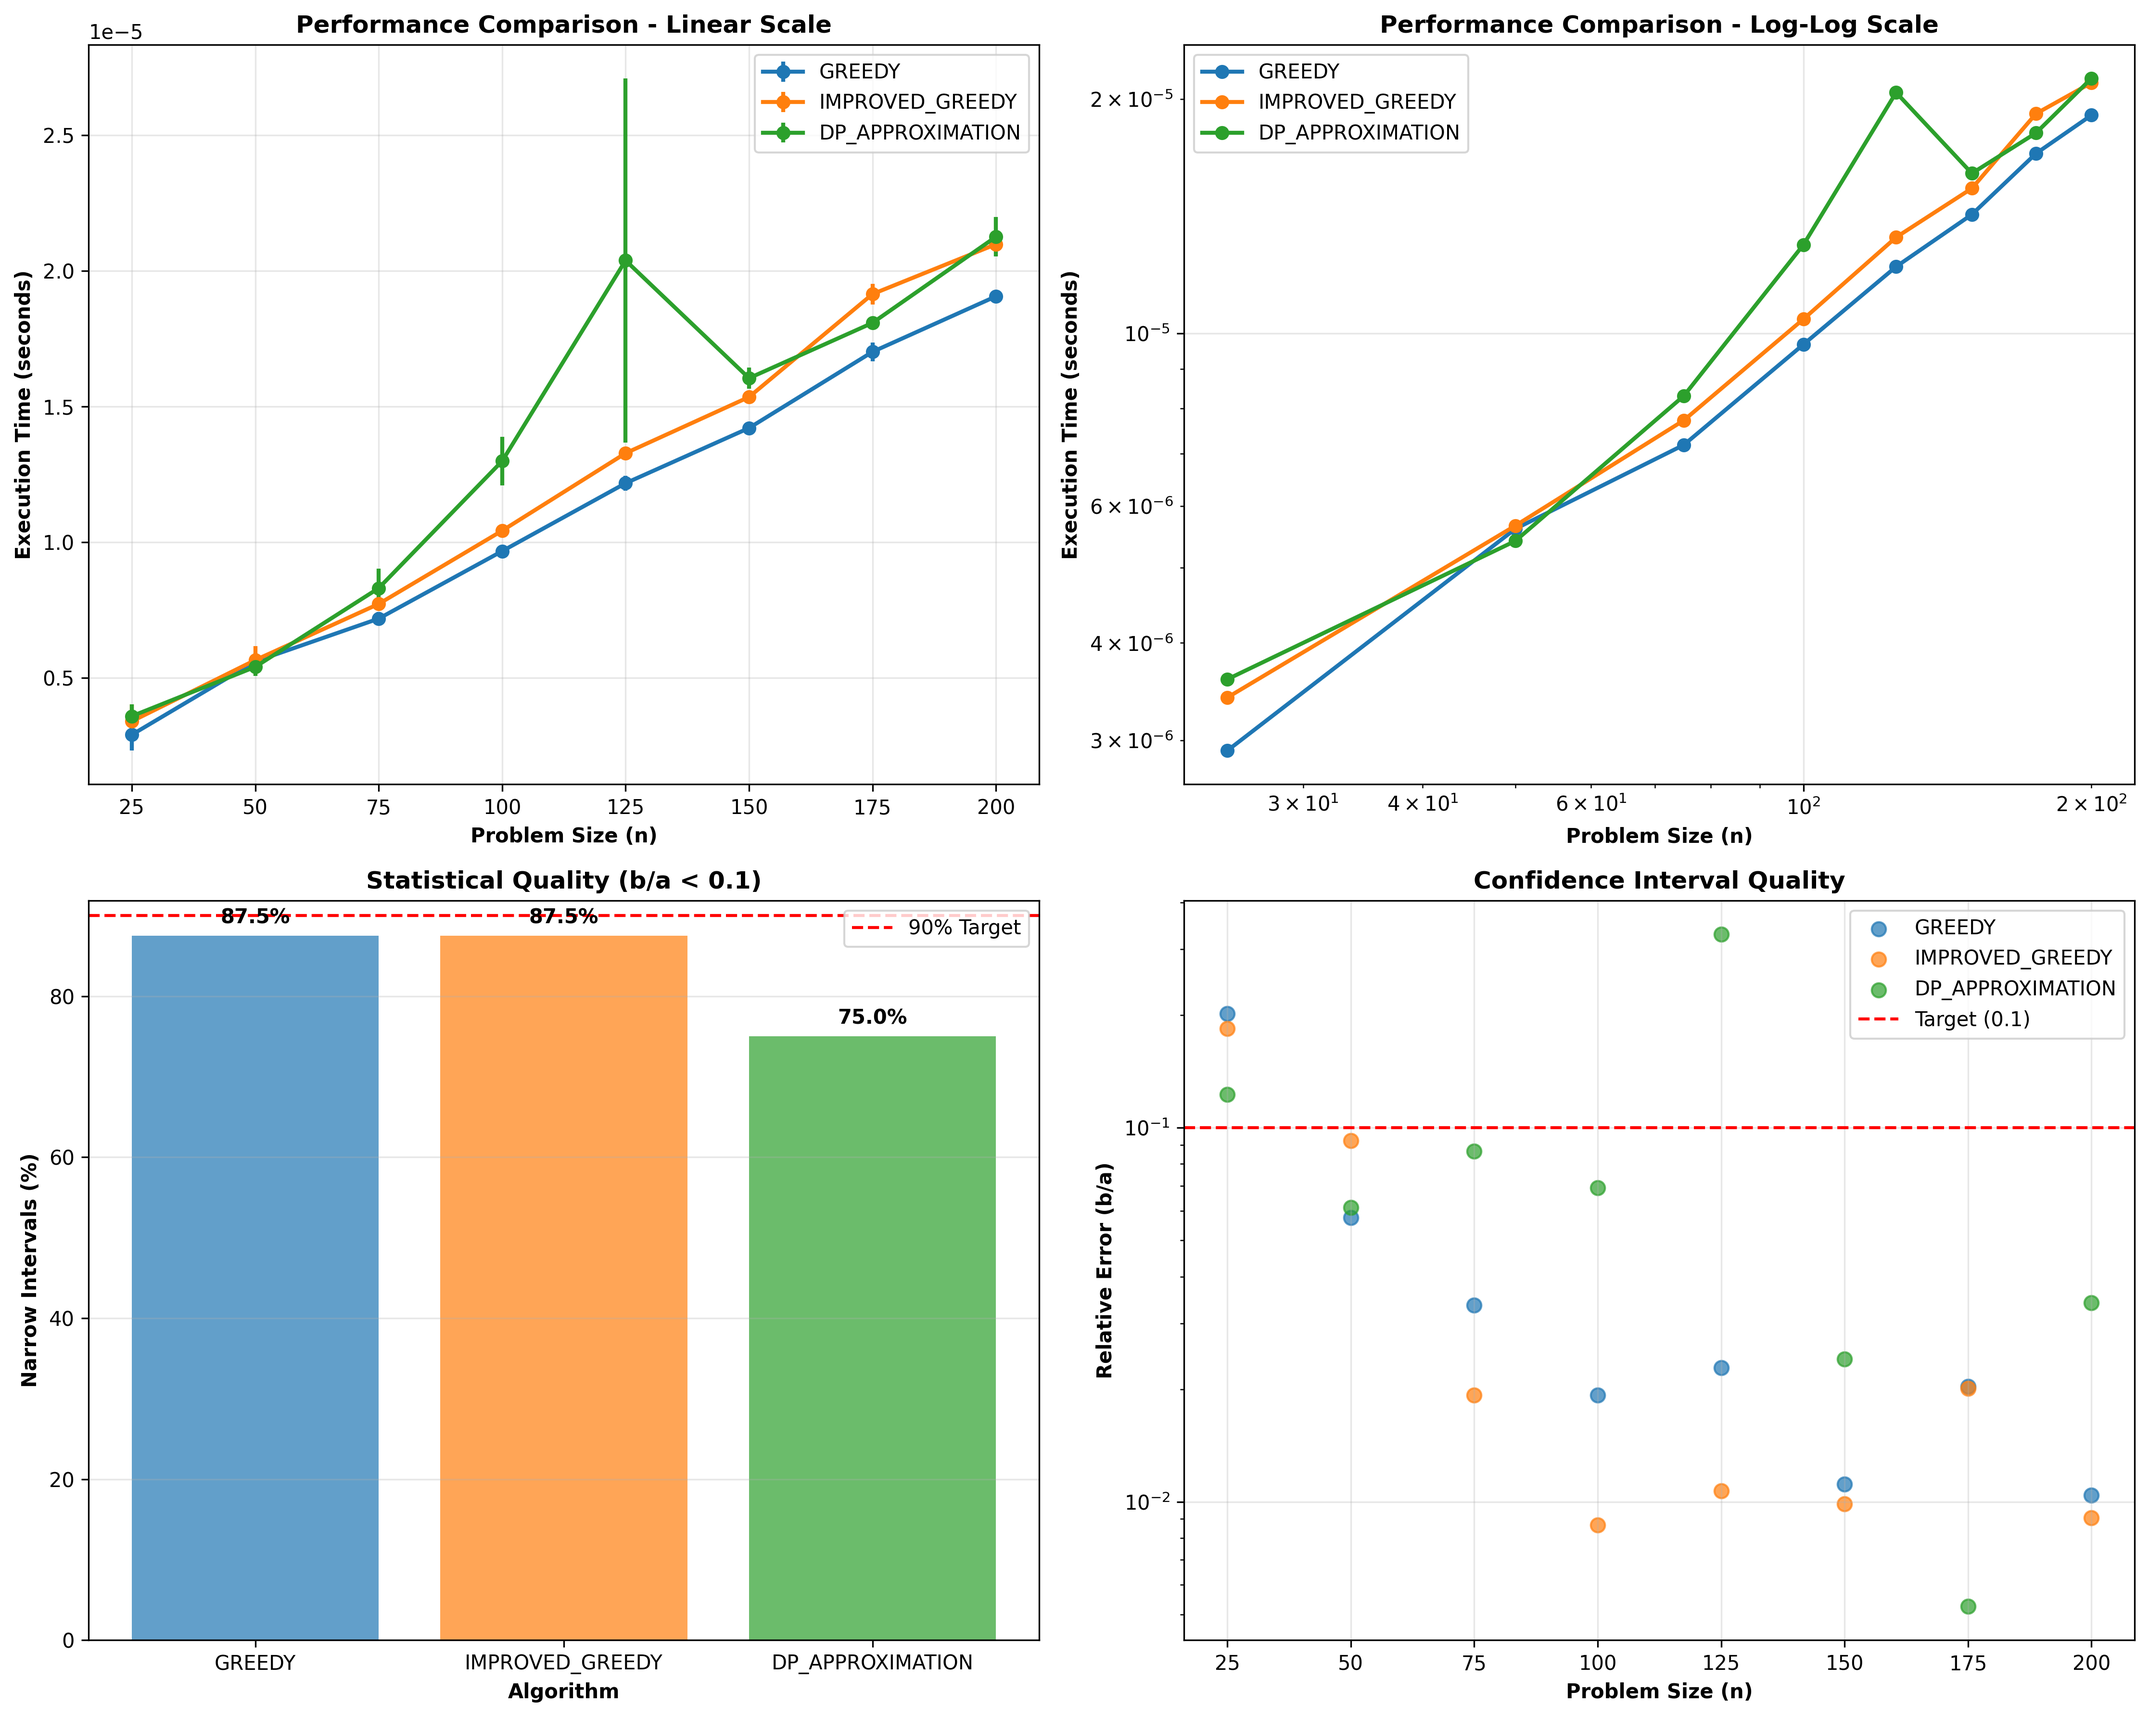
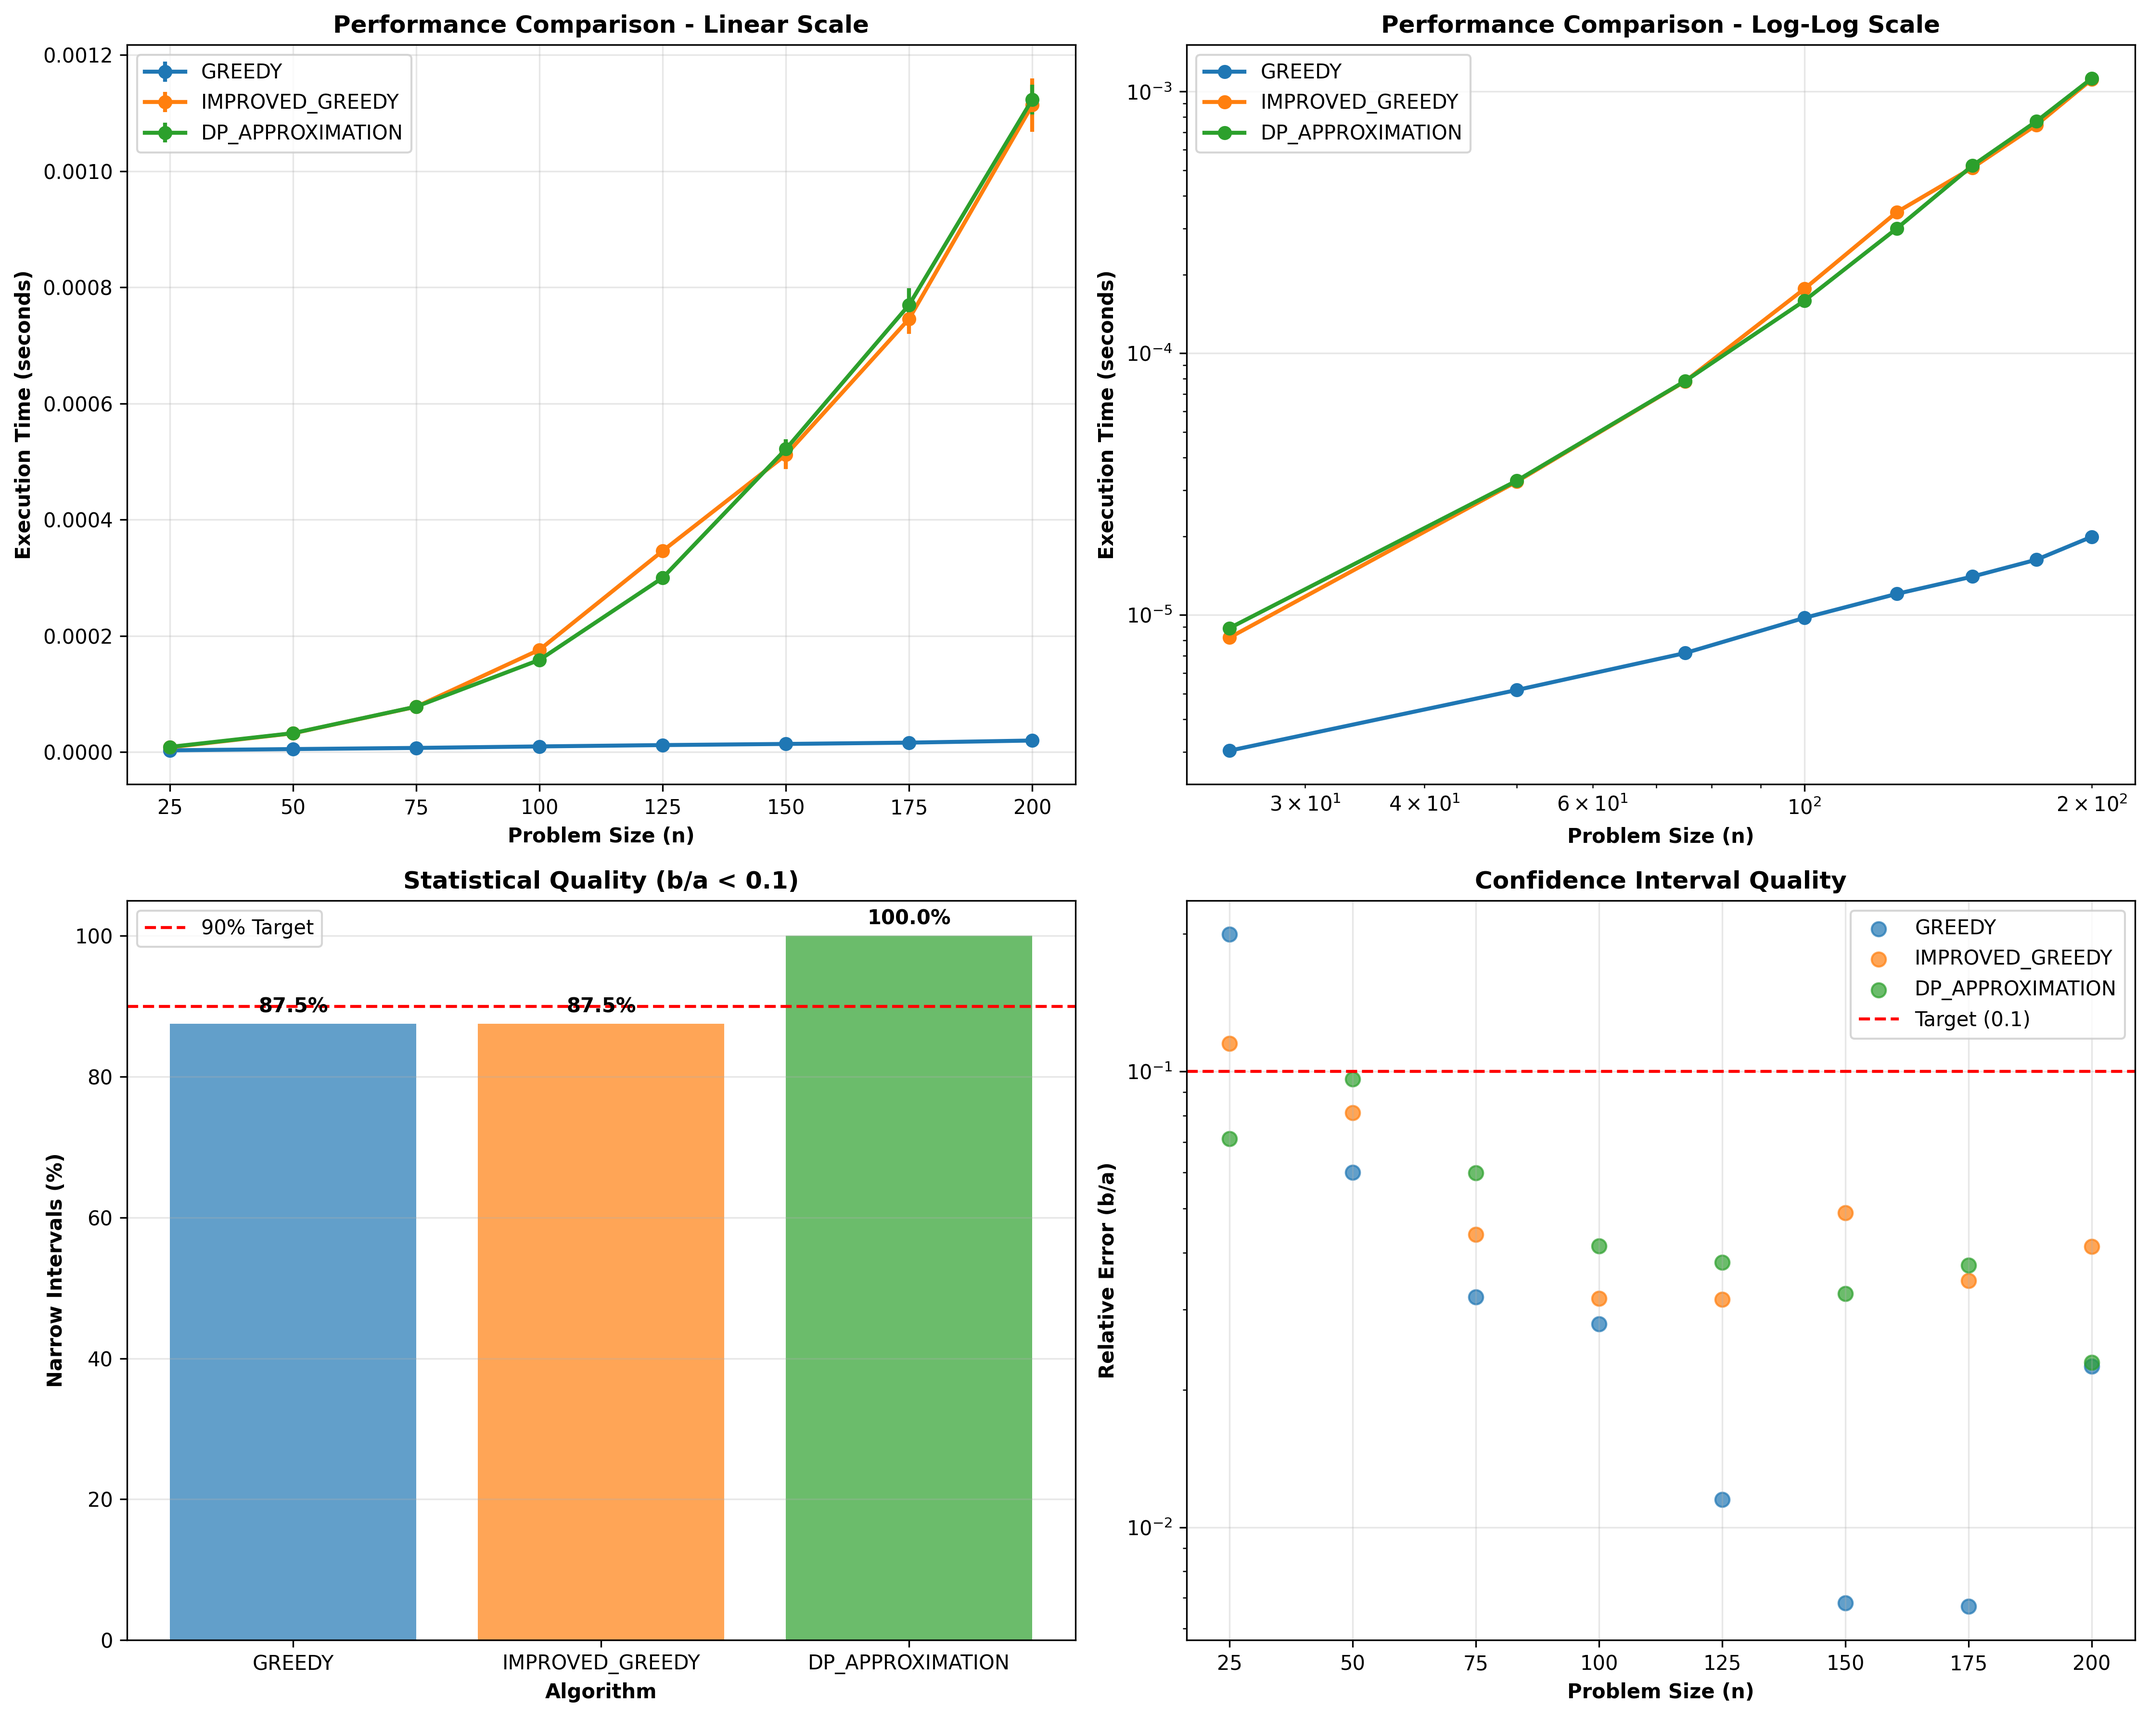
Updated performance analysis paths and regenerated plots

diff --git a/analysis/section6_performance.py b/analysis/section6_performance.py
@@ -169,7 +169,7 @@ class PerformanceAnalyzer:
             return {'best_fit': 'None', 'r2': 0.0, 'params': [], 'all_fits': {}}
 
     def generate_performance_plots(self, all_results: Dict[str, List[Dict]],
-                                 output_path: str = '../results/performance_plots.png'):
+                                 output_path: str = 'results/performance_plots.png'):
         """Generate comprehensive performance visualization."""
         fig, ((ax1, ax2), (ax3, ax4)) = plt.subplots(2, 2, figsize=(15, 12))
         colors = ['#1f77b4', '#ff7f0e', '#2ca02c']
@@ -332,7 +332,7 @@ def run_section6_performance_testing():
     print("GENERATING PERFORMANCE VISUALIZATION")
     print('='*80)
 
-    os.makedirs('../results', exist_ok=True)
+    os.makedirs('results', exist_ok=True)
     analyzer.generate_performance_plots(all_results)
 
     # Save detailed CSV results
@@ -352,7 +352,7 @@ def run_section6_performance_testing():
             })
 
     df = pd.DataFrame(csv_data)
-    df.to_csv('../results/section6_performance_results.csv', index=False)
+    df.to_csv('results/section6_performance_results.csv', index=False)
 
     # Generate comprehensive report
     overall_narrow = sum(len([r for r in results if r['is_narrow']]) for results in all_results.values())
@@ -379,7 +379,7 @@ def run_section6_performance_testing():
         'timestamp': time.strftime('%Y-%m-%d %H:%M:%S')
     }
 
-    with open('../results/section6_performance_report.json', 'w') as f:
+    with open('results/section6_performance_report.json', 'w') as f:
         json.dump(report, f, indent=2)
 
     # Final summary
@@ -392,9 +392,9 @@ def run_section6_performance_testing():
     print(f"  Project statistical quality: {report['summary']['project_statistical_quality']}")
 
     print(f"\nFILES GENERATED:")
-    print(f"✓ Performance plots: ../results/performance_plots.png")
-    print(f"✓ Detailed results: ../results/section6_performance_results.csv")
-    print(f"✓ Complete report: ../results/section6_performance_report.json")
+    print(f"✓ Performance plots: results/performance_plots.png")
+    print(f"✓ Detailed results: results/section6_performance_results.csv")
+    print(f"✓ Complete report: results/section6_performance_report.json")
 
     print(f"\n🎯 SECTION 6 PERFORMANCE TESTING COMPLETE!")
 
